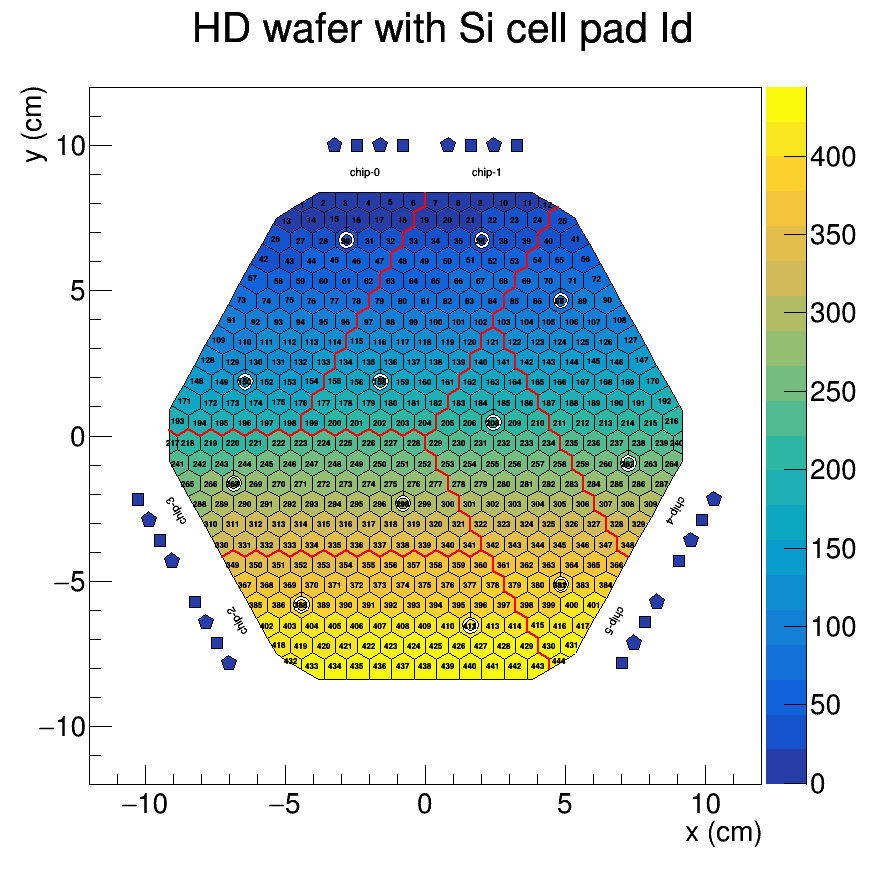
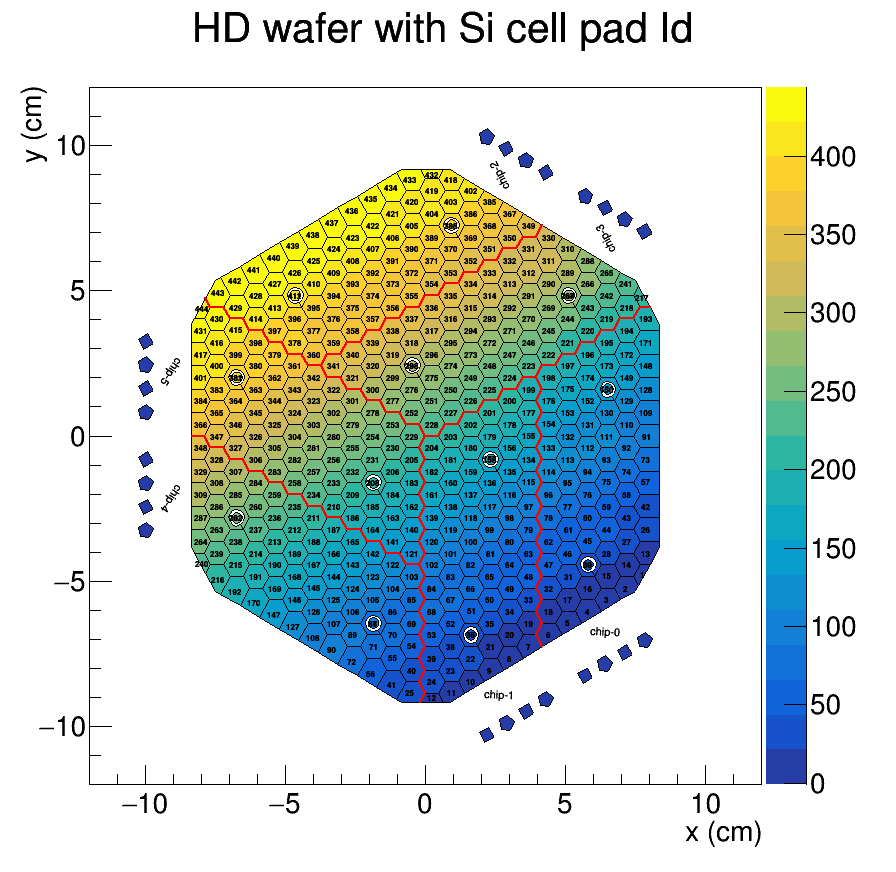
update for extra rotation

Changed region(s): [[0.125, 0.1548, 0.8125, 0.836], [0.5312, 0.836, 0.5625, 0.867], [0.25, 0.7431, 0.2812, 0.7741]]

diff --git a/include/auxiliary_boundary_lines_HD_full_wafer.h b/include/auxiliary_boundary_lines_HD_full_wafer.h
@@ -4,18 +4,18 @@
 namespace aux {
 const int N_HD_boundary_points = 24;
 
-double x1_HD_full_wafer[N_HD_boundary_points] = {-9.161466, -8.859440, -8.456738, -8.054036, -7.651334, -7.248633, -6.845931, -6.443229, -6.040527, -5.637825, -5.235124, -4.832422, -4.429720, -4.027018, -3.624316, -3.221615, -2.818913, -2.416211, -2.013509, -1.610807, -1.208105, -0.805404, -0.402702, -0.000000};
-double y1_HD_full_wafer[N_HD_boundary_points] = {0.174375, 0.000000, 0.232500, 0.000000, 0.232500, 0.000000, 0.232500, -0.000000, 0.232500, 0.000000, 0.232500, 0.000000, 0.232500, -0.000000, 0.232500, -0.000000, 0.232500, -0.000000, 0.232500, -0.000000, 0.232500, -0.000000, 0.232500, -0.000000};
-double x2_HD_full_wafer[N_HD_boundary_points] = {4.731746, 4.429720, 4.429720, 4.027018, 4.027018, 3.624316, 3.624316, 3.221615, 3.221615, 2.818913, 2.818913, 2.416211, 2.416211, 2.013509, 2.013509, 1.610807, 1.610807, 1.208105, 1.208105, 0.805404, 0.805404, 0.402702, 0.402702, -0.000000};
-double y2_HD_full_wafer[N_HD_boundary_points] = {7.846875, 7.672500, 7.207500, 6.975000, 6.510000, 6.277500, 5.812500, 5.580000, 5.115000, 4.882500, 4.417500, 4.185000, 3.720000, 3.487500, 3.022500, 2.790000, 2.325000, 2.092500, 1.627500, 1.395000, 0.930000, 0.697500, 0.232500, -0.000000};
-double x3_HD_full_wafer[N_HD_boundary_points] = {4.429720, 4.429720, 4.027018, 4.027018, 3.624316, 3.624316, 3.221615, 3.221615, 2.818913, 2.818913, 2.416211, 2.416211, 2.013509, 2.013509, 1.610807, 1.610807, 1.208105, 1.208105, 0.805404, 0.805404, 0.402702, 0.402702, -0.000000, -0.000000};
-double y3_HD_full_wafer[N_HD_boundary_points] = {-8.021250, -7.672500, -7.440000, -6.975000, -6.742500, -6.277500, -6.045000, -5.580000, -5.347500, -4.882500, -4.650000, -4.185000, -3.952500, -3.487500, -3.255000, -2.790000, -2.557500, -2.092500, -1.860000, -1.395000, -1.162500, -0.697500, -0.465000, -0.000000};
-double x4_HD_full_wafer[N_HD_boundary_points] = {0.000000, 0.000000, -0.402702, -0.402702, -0.805404, -0.805404, -1.208105, -1.208105, -1.610807, -1.610807, -2.013509, -2.013509, -2.416211, -2.416211, -2.818913, -2.818913, -3.221615, -3.221615, -3.624316, -3.624316, -4.027018, -4.027018, -4.429720, -4.429720};
-double y4_HD_full_wafer[N_HD_boundary_points] = {8.370000, 7.905000, 7.672500, 7.207500, 6.975000, 6.510000, 6.277500, 5.812500, 5.580000, 5.115000, 4.882500, 4.417500, 4.185000, 3.720000, 3.487500, 3.022500, 2.790000, 2.325000, 2.092500, 1.627500, 1.395000, 0.930000, 0.697500, 0.232500};
-double x5_HD_full_wafer[N_HD_boundary_points] = {7.248633, 6.845931, 6.845931, 6.443229, 6.443229, 6.040527, 6.040527, 5.637825, 5.637825, 5.235124, 5.235124, 4.832422, 4.832422, 4.429720, 4.429720, 4.027018, 4.027018, 3.624316, 3.624316, 3.221615, 3.221615, 2.818913, 2.818913, 2.416211};
-double y5_HD_full_wafer[N_HD_boundary_points] = {-4.185000, -3.952500, -3.487500, -3.255000, -2.790000, -2.557500, -2.092500, -1.860000, -1.395000, -1.162500, -0.697500, -0.465000, -0.000000, 0.232500, 0.697500, 0.930000, 1.395000, 1.627500, 2.092500, 2.325000, 2.790000, 3.022500, 3.487500, 3.720000};
-double x6_HD_full_wafer[N_HD_boundary_points] = {-7.248633, -6.845931, -6.443229, -6.040527, -5.637825, -5.235124, -4.832422, -4.429720, -4.027018, -3.624316, -3.221615, -2.818913, -2.416211, -2.013509, -1.610807, -1.208105, -0.805404, -0.402702, -0.000000, 0.402702, 0.805404, 1.208105, 1.610807, 2.013509};
-double y6_HD_full_wafer[N_HD_boundary_points] = {-4.185000, -3.952500, -4.185000, -3.952500, -4.185000, -3.952500, -4.185000, -3.952500, -4.185000, -3.952500, -4.185000, -3.952500, -4.185000, -3.952500, -4.185000, -3.952500, -4.185000, -3.952500, -4.185000, -3.952500, -4.185000, -3.952500, -4.185000, -3.952500};
+double x1_HD_full_wafer[N_HD_boundary_points] = {-7.846875, -7.672500, -7.207500, -6.975000, -6.510000, -6.277500, -5.812500, -5.580000, -5.115000, -4.882500, -4.417500, -4.185000, -3.720000, -3.487500, -3.022500, -2.790000, -2.325000, -2.092500, -1.627500, -1.395000, -0.930000, -0.697500, -0.232500, -0.000000};
+double y1_HD_full_wafer[N_HD_boundary_points] = {4.731746, 4.429720, 4.429720, 4.027018, 4.027018, 3.624316, 3.624316, 3.221615, 3.221615, 2.818913, 2.818913, 2.416211, 2.416211, 2.013509, 2.013509, 1.610807, 1.610807, 1.208105, 1.208105, 0.805404, 0.805404, 0.402702, 0.402702, -0.000000};
+double x2_HD_full_wafer[N_HD_boundary_points] = {8.021250, 7.672500, 7.440000, 6.975000, 6.742500, 6.277500, 6.045000, 5.580000, 5.347500, 4.882500, 4.650000, 4.185000, 3.952500, 3.487500, 3.255000, 2.790000, 2.557500, 2.092500, 1.860000, 1.395000, 1.162500, 0.697500, 0.465000, -0.000000};
+double y2_HD_full_wafer[N_HD_boundary_points] = {4.429720, 4.429720, 4.027018, 4.027018, 3.624316, 3.624316, 3.221615, 3.221615, 2.818913, 2.818913, 2.416211, 2.416211, 2.013509, 2.013509, 1.610807, 1.610807, 1.208105, 1.208105, 0.805404, 0.805404, 0.402702, 0.402702, -0.000000, -0.000000};
+double x3_HD_full_wafer[N_HD_boundary_points] = {-0.174375, 0.000000, -0.232500, 0.000000, -0.232500, 0.000000, -0.232500, 0.000000, -0.232500, -0.000000, -0.232500, -0.000000, -0.232500, 0.000000, -0.232500, -0.000000, -0.232500, -0.000000, -0.232500, -0.000000, -0.232500, -0.000000, -0.232500, -0.000000};
+double y3_HD_full_wafer[N_HD_boundary_points] = {-9.161466, -8.859440, -8.456738, -8.054036, -7.651334, -7.248633, -6.845931, -6.443229, -6.040527, -5.637825, -5.235124, -4.832422, -4.429720, -4.027018, -3.624316, -3.221615, -2.818913, -2.416211, -2.013509, -1.610807, -1.208105, -0.805404, -0.402702, -0.000000};
+double x4_HD_full_wafer[N_HD_boundary_points] = {4.185000, 3.952500, 3.487500, 3.255000, 2.790000, 2.557500, 2.092500, 1.860000, 1.395000, 1.162500, 0.697500, 0.465000, -0.000000, -0.232500, -0.697500, -0.930000, -1.395000, -1.627500, -2.092500, -2.325000, -2.790000, -3.022500, -3.487500, -3.720000};
+double y4_HD_full_wafer[N_HD_boundary_points] = {7.248633, 6.845931, 6.845931, 6.443229, 6.443229, 6.040527, 6.040527, 5.637825, 5.637825, 5.235124, 5.235124, 4.832422, 4.832422, 4.429720, 4.429720, 4.027018, 4.027018, 3.624316, 3.624316, 3.221615, 3.221615, 2.818913, 2.818913, 2.416211};
+double x5_HD_full_wafer[N_HD_boundary_points] = {4.185000, 3.952500, 4.185000, 3.952500, 4.185000, 3.952500, 4.185000, 3.952500, 4.185000, 3.952500, 4.185000, 3.952500, 4.185000, 3.952500, 4.185000, 3.952500, 4.185000, 3.952500, 4.185000, 3.952500, 4.185000, 3.952500, 4.185000, 3.952500};
+double y5_HD_full_wafer[N_HD_boundary_points] = {-7.248633, -6.845931, -6.443229, -6.040527, -5.637825, -5.235124, -4.832422, -4.429720, -4.027018, -3.624316, -3.221615, -2.818913, -2.416211, -2.013509, -1.610807, -1.208105, -0.805404, -0.402702, 0.000000, 0.402702, 0.805404, 1.208105, 1.610807, 2.013509};
+double x6_HD_full_wafer[N_HD_boundary_points] = {-8.370000, -7.905000, -7.672500, -7.207500, -6.975000, -6.510000, -6.277500, -5.812500, -5.580000, -5.115000, -4.882500, -4.417500, -4.185000, -3.720000, -3.487500, -3.022500, -2.790000, -2.325000, -2.092500, -1.627500, -1.395000, -0.930000, -0.697500, -0.232500};
+double y6_HD_full_wafer[N_HD_boundary_points] = {0.000000, -0.000000, -0.402702, -0.402702, -0.805404, -0.805404, -1.208105, -1.208105, -1.610807, -1.610807, -2.013509, -2.013509, -2.416211, -2.416211, -2.818913, -2.818913, -3.221615, -3.221615, -3.624316, -3.624316, -4.027018, -4.027018, -4.429720, -4.429720};
 }; // end of aux
 
 #endif // __auxiliary_boundary_lines_HD_full_wafer__

diff --git a/include/auxiliary_boundary_lines.h b/include/auxiliary_boundary_lines.h
@@ -4,18 +4,18 @@
 namespace aux {
 const int N_boundary_points = 16;
 
-double x1[N_boundary_points] = {4.948189, 4.229400, 4.229400, 3.625200, 3.625200, 3.021000, 3.021000, 2.416800, 2.416800, 1.812600, 1.812600, 1.208400, 1.208400, 0.604200, 0.604200, 0.000000};
-double y1[N_boundary_points] = {7.740528, 7.325535, 6.627865, 6.279030, 5.581360, 5.232525, 4.534855, 4.186020, 3.488350, 3.139515, 2.441845, 2.093010, 1.395340, 1.046505, 0.348835, 0.000000};
-double x2[N_boundary_points] = {-9.177589, -8.458799, -7.854599, -7.250399, -6.646199, -6.041999, -5.437799, -4.833599, -4.229399, -3.625200, -3.021000, -2.416800, -1.812600, -1.208400, -0.604200, 0.000000};
-double y2[N_boundary_points] = {0.414993, 0.000000, 0.348835, 0.000000, 0.348835, 0.000000, 0.348835, 0.000000, 0.348835, 0.000000, 0.348835, 0.000000, 0.348835, 0.000000, 0.348835, 0.000000};
-double x3[N_boundary_points] = {0.000000, 0.000000, 0.604200, 0.604200, 1.208400, 1.208400, 1.812600, 1.812600, 2.416800, 2.416800, 3.021000, 3.021000, 3.625200, 3.625200, 4.229400, 4.229400};
-double y3[N_boundary_points] = {0.000000, -0.697670, -1.046505, -1.744175, -2.093010, -2.790680, -3.139515, -3.837185, -4.186020, -4.883690, -5.232525, -5.930195, -6.279030, -6.976700, -7.325535, -8.155522};
-double x4[N_boundary_points] = {-6.948299, -6.041999, -5.437799, -4.833599, -4.229399, -3.625200, -3.021000, -2.416800, -1.812600, -1.208400, -0.604200, 0.000000, 0.604200, 1.208400, 1.812600, 2.416800};
-double y4[N_boundary_points] = {4.709273, 4.186020, 4.534855, 4.186020, 4.534855, 4.186020, 4.534855, 4.186020, 4.534855, 4.186020, 4.534855, 4.186020, 4.534855, 4.186020, 4.534855, 4.186020};
-double x5[N_boundary_points] = {7.552499, 6.646199, 6.646199, 6.042000, 6.042000, 5.437800, 5.437800, 4.833600, 4.833600, 4.229400, 4.229400, 3.625200, 3.625200, 3.021000, 3.021000, 2.416800};
-double y5[N_boundary_points] = {3.662767, 3.139515, 2.441845, 2.093010, 1.395340, 1.046505, 0.348835, -0.000000, -0.697670, -1.046505, -1.744175, -2.093010, -2.790680, -3.139515, -3.837185, -4.186020};
-double x6[N_boundary_points] = {-4.833599, -4.833599, -4.229399, -4.229399, -3.625200, -3.625200, -3.021000, -3.021000, -2.416800, -2.416800, -1.812600, -1.812600, -1.208400, -1.208400, -0.604200, -0.604200};
-double y6[N_boundary_points] = {0.000000, -0.697670, -1.046505, -1.744175, -2.093010, -2.790680, -3.139515, -3.837185, -4.186020, -4.883690, -5.232525, -5.930195, -6.279030, -6.976700, -7.325535, -8.372040};
+double x1[N_boundary_points] = {6.947122, 6.117135, 5.768300, 5.070630, 4.721795, 4.024125, 3.675290, 2.977620, 2.628785, 1.931115, 1.582280, 0.884610, 0.535775, -0.161895, -0.510730, -1.208400};
+double y1[N_boundary_points] = {4.553189, 4.553189, 3.948989, 3.948989, 3.344789, 3.344789, 2.740589, 2.740589, 2.136389, 2.136389, 1.532189, 1.532189, 0.927990, 0.927990, 0.323790, 0.323790};
+double x2[N_boundary_points] = {-8.948928, -8.533935, -7.836265, -7.487430, -6.789760, -6.440925, -5.743255, -5.394420, -4.696750, -4.347915, -3.650245, -3.301410, -2.603740, -2.254905, -1.557235, -1.208400};
+double y2[N_boundary_points] = {5.271979, 4.553189, 4.553189, 3.948989, 3.948989, 3.344789, 3.344789, 2.740589, 2.740589, 2.136389, 2.136389, 1.532189, 1.532189, 0.927990, 0.927990, 0.323790};
+double x3[N_boundary_points] = {-1.208400, -1.557235, -1.208400, -1.557235, -1.208400, -1.557235, -1.208400, -1.557235, -1.208400, -1.557235, -1.208400, -1.557235, -1.208400, -1.557235, -1.208400, -1.623393};
+double y3[N_boundary_points] = {0.323790, -0.280410, -0.884610, -1.488810, -2.093010, -2.697210, -3.301410, -3.905610, -4.509810, -5.114010, -5.718210, -6.322410, -6.926610, -7.530810, -8.135010, -8.853799};
+double x4[N_boundary_points] = {-4.871167, -4.347915, -3.650245, -3.301410, -2.603740, -2.254905, -1.557235, -1.208400, -0.510730, -0.161895, 0.535775, 0.884610, 1.582280, 1.931115, 2.628785, 2.977620};
+double y4[N_boundary_points] = {7.876289, 6.969989, 6.969989, 6.365789, 6.365789, 5.761589, 5.761589, 5.157389, 5.157389, 4.553189, 4.553189, 3.948989, 3.948989, 3.344789, 3.344789, 2.740589};
+double x5[N_boundary_points] = {7.163640, 6.117135, 5.768300, 5.070630, 4.721795, 4.024125, 3.675290, 2.977620, 2.628785, 1.931115, 1.582280, 0.884610, 0.535775, -0.161895, -0.510730, -1.208400};
+double y5[N_boundary_points] = {-0.280410, -0.280410, -0.884610, -0.884610, -1.488810, -1.488810, -2.093010, -2.093010, -2.697210, -2.697210, -3.301410, -3.301410, -3.905610, -3.905610, -4.509810, -4.509810};
+double x6[N_boundary_points] = {-5.394420, -5.743255, -5.394420, -5.743255, -5.394420, -5.743255, -5.394420, -5.743255, -5.394420, -5.743255, -5.394420, -5.743255, -5.394420, -5.743255, -5.394420, -5.917673};
+double y6[N_boundary_points] = {2.740589, 2.136389, 1.532189, 0.927990, 0.323790, -0.280410, -0.884610, -1.488810, -2.093010, -2.697210, -3.301410, -3.905610, -4.509810, -5.114010, -5.718210, -6.624510};
 }; // end of aux
 
 #endif // __auxiliary_boundary_lines__

diff --git a/th2poly.C b/th2poly.C
@@ -5,9 +5,19 @@
 #include "include/map_channel_numbers.h"
 #include <map>
 
-void beautify_plot(bool drawLine = true, bool drawText = true, TString NameTag = "LD_wafer", double extra_angle = 0.0);
+#include "TMath.h"
 
-void th2poly(TString inputfile, TString outputfile, double range, bool drawLine=false, TString NameTag="LD_wafer", double MarkerSize = 0.7, double extra_angle = 0.0){
+void beautify_plot(bool drawLine = true, bool drawText = true, TString NameTag = "LD_wafer", double extra_angle = 0.0, TString rotationTag = "");
+
+void th2poly(TString inputfile, TString outputfile, double range, bool drawLine=false, TString NameTag="LD_wafer", double MarkerSize = 0.7, TString rotationTag = ""){
+
+    double extra_angle = 0.0;
+
+    if(rotationTag=="_rotation150")
+        extra_angle = 5. * TMath::Pi() / 6.;
+    if(rotationTag=="_rotation30")
+        extra_angle = TMath::Pi() / 6.;
+
     TCanvas *c1 = new TCanvas("c1", "", 900, 900);
     c1->SetRightMargin(0.15);
     gStyle->SetPaintTextFormat(".0f");
@@ -162,25 +172,25 @@ void th2poly(TString inputfile, TString outputfile, double range, bool drawLine=
     if(scheme==0) {
         p->SetMarkerSize(MarkerSize);
         p->Draw("colz;text");
-        beautify_plot(drawLine, true, NameTag, extra_angle);
-        c1->SaveAs("waferMaps/info_"+NameTag+"_globalChannelId_readoutSequence.png");
-        c1->SaveAs("waferMaps/info_"+NameTag+"_globalChannelId_readoutSequence.pdf");
+        beautify_plot(drawLine, true, NameTag, extra_angle, rotationTag);
+        c1->SaveAs("waferMaps/info_"+NameTag+"_globalChannelId_readoutSequence"+rotationTag+".png");
+        c1->SaveAs("waferMaps/info_"+NameTag+"_globalChannelId_readoutSequence"+rotationTag+".pdf");
 
         p_pin->SetMarkerSize(MarkerSize);
         p_pin->Draw("colz;text");
-        beautify_plot(drawLine, true, NameTag, extra_angle);
-        c1->SaveAs("waferMaps/info_"+NameTag+"_HGCROC_pin_chan.png");
-        c1->SaveAs("waferMaps/info_"+NameTag+"_HGCROC_pin_chan.pdf");
+        beautify_plot(drawLine, true, NameTag, extra_angle, rotationTag);
+        c1->SaveAs("waferMaps/info_"+NameTag+"_HGCROC_pin_chan"+rotationTag+".png");
+        c1->SaveAs("waferMaps/info_"+NameTag+"_HGCROC_pin_chan"+rotationTag+".pdf");
 
         p_sicell->SetMarkerSize(MarkerSize);
         p_sicell->Draw("colz;text");
-        beautify_plot(drawLine, true, NameTag, extra_angle);
-        c1->SaveAs("waferMaps/info_"+NameTag+"_SiCell_padId.png");
-        c1->SaveAs("waferMaps/info_"+NameTag+"_SiCell_padId.pdf");
+        beautify_plot(drawLine, true, NameTag, extra_angle, rotationTag);
+        c1->SaveAs("waferMaps/info_"+NameTag+"_SiCell_padId"+rotationTag+".png");
+        c1->SaveAs("waferMaps/info_"+NameTag+"_SiCell_padId"+rotationTag+".pdf");
     } else {
         p->SetMarkerSize(MarkerSize);
         p->Draw("colz;text");
-        beautify_plot(drawLine, true, NameTag, extra_angle);
+        beautify_plot(drawLine, true, NameTag, extra_angle, rotationTag);
         c1->SaveAs("test_injection_"+NameTag+".png");
     }
 
@@ -192,7 +202,7 @@ void th2poly(TString inputfile, TString outputfile, double range, bool drawLine=
 
 }
 
-void beautify_plot(bool drawLine = true, bool drawText = true, TString NameTag = "LD_wafer", double extra_angle = 0.0) {
+void beautify_plot(bool drawLine = true, bool drawText = true, TString NameTag = "LD_wafer", double extra_angle = 0.0, TString rotationTag = "") {
     //-----------------------------------------------------------------
     // cosmetics
     //-----------------------------------------------------------------
@@ -240,11 +250,18 @@ void beautify_plot(bool drawLine = true, bool drawText = true, TString NameTag =
         text.SetTextSize(12);
 
         if(NameTag.Contains("HD")) {
-            double theta1 = 0.;
-            double theta2 = 4*TMath::Pi()/3.;
-            double theta3 = 2*TMath::Pi()/3.;
+            double theta1 = 0. + extra_angle;
+            double theta2 = 4*TMath::Pi()/3. + extra_angle;
+            double theta3 = 2*TMath::Pi()/3. + extra_angle;
 
             std::vector<double> theta_angle_text = {0, 0, 120, 120, -120, -120};
+            if(rotationTag.Contains("150"))
+                theta_angle_text = {-150, -150, -30, -30, 90, 90};
+            else if(rotationTag.Contains("30"))
+                theta_angle_text = {-30, -30, 90, 90, -150, -150};
+
+            // std::vector<double> theta_angle_text = {0, 0, 120, 120, -120, -120};
+            // std::vector<double> theta_angle_text = {-extra_angle, -extra_angle, -extra_angle+120, -extra_angle+120, -extra_angle-120, -extra_angle-120};
             std::vector<double> theta_coordinate_text = {theta1, theta1, theta2, theta2, theta3, theta3};
             std::vector<double> x_coordinate_text = {-6.25, 6.25, -6.25, 6.25, -6.25, 6.25};
             std::vector<double> y_coordinate_text = {26, 26, 26, 26, 26, 26};

diff --git a/toolbox/polygon_manager.py b/toolbox/polygon_manager.py
@@ -39,7 +39,7 @@ class PolygonManager:
             self.output_geometry_root_file = "./data/hexagons.root"
 
         self.extra_rotation_tb2024 = extra_angle
-        self.global_theta = 5.*math.pi/6. + self.extra_rotation_tb2024 # 150 + extra degree
+        self.global_theta = 5.*math.pi/6. # + self.extra_rotation_tb2024 # 150 + extra degree
         self.cos_global_theta = math.cos(self.global_theta)
         self.sin_global_theta = math.sin(self.global_theta)
 
@@ -163,6 +163,7 @@ class PolygonManager:
             coor = self.cell_helper.cellUV2XY1(int(self.iu), int(self.iv), 0, self.cell_fine_or_coarse)
             x, y = self.rotate_coordinate(coor[0], coor[1], self.global_theta)
             x, y = self.translate_coordinate(x, y, 1., (-1*self.global_correction_x, -1*self.global_correction_y))
+            x, y = self.rotate_coordinate(x, y, self.extra_rotation_tb2024)
             return x, y
 
     def get_polygon_information(self):
@@ -375,31 +376,31 @@ class PolygonManager:
         CAVEAT: mind the internal indices of corner polygons when querying auxiliary lines
         """
         if self.type_polygon==tg.type_HD_hexagon_side3_corner3:
-            return tg.base[tg.type_HD_hexagon_side1_corner1], 2*tg.p3
+            return tg.base[tg.type_HD_hexagon_side1_corner1], 2*tg.p3 + self.extra_rotation_tb2024
         elif self.type_polygon==tg.type_HD_hexagon_side3_corner4:
-            return tg.base[tg.type_HD_hexagon_side1_corner2], 2*tg.p3
+            return tg.base[tg.type_HD_hexagon_side1_corner2], 2*tg.p3 + self.extra_rotation_tb2024
         elif self.type_polygon==tg.type_HD_hexagon_side5_corner5:
-            return tg.base[tg.type_HD_hexagon_side1_corner1], 4*tg.p3
+            return tg.base[tg.type_HD_hexagon_side1_corner1], 4*tg.p3 + self.extra_rotation_tb2024
         elif self.type_polygon==tg.type_HD_hexagon_side5_corner6:
-            return tg.base[tg.type_HD_hexagon_side1_corner2], 4*tg.p3
+            return tg.base[tg.type_HD_hexagon_side1_corner2], 4*tg.p3 + self.extra_rotation_tb2024
 
         elif self.type_polygon==tg.type_HD_trpezoid_corner3:
-            return tg.base[tg.type_HD_trpezoid_corner1], 2*tg.p3
+            return tg.base[tg.type_HD_trpezoid_corner1], 2*tg.p3 + self.extra_rotation_tb2024
         elif self.type_polygon==tg.type_HD_trpezoid_corner4:
-            return tg.base[tg.type_HD_trpezoid_corner2], 2*tg.p3
+            return tg.base[tg.type_HD_trpezoid_corner2], 2*tg.p3 + self.extra_rotation_tb2024
         elif self.type_polygon==tg.type_HD_trpezoid_corner5:
-            return tg.base[tg.type_HD_trpezoid_corner1], 4*tg.p3
+            return tg.base[tg.type_HD_trpezoid_corner1], 4*tg.p3 + self.extra_rotation_tb2024
         elif self.type_polygon==tg.type_HD_trpezoid_corner6:
-            return tg.base[tg.type_HD_trpezoid_corner2], 4*tg.p3
+            return tg.base[tg.type_HD_trpezoid_corner2], 4*tg.p3 + self.extra_rotation_tb2024
 
         elif self.type_polygon==tg.type_HD_hexagon_side2_corner3:
-            return tg.base[tg.type_HD_hexagon_side6_corner1], 2*tg.p3
+            return tg.base[tg.type_HD_hexagon_side6_corner1], 2*tg.p3 + self.extra_rotation_tb2024
         elif self.type_polygon==tg.type_HD_hexagon_side4_corner4:
-            return tg.base[tg.type_HD_hexagon_side2_corner2], 2*tg.p3
+            return tg.base[tg.type_HD_hexagon_side2_corner2], 2*tg.p3 + self.extra_rotation_tb2024
         elif self.type_polygon==tg.type_HD_hexagon_side4_corner5:
-            return tg.base[tg.type_HD_hexagon_side6_corner1], 4*tg.p3
+            return tg.base[tg.type_HD_hexagon_side6_corner1], 4*tg.p3 + self.extra_rotation_tb2024
         elif self.type_polygon==tg.type_HD_hexagon_side6_corner6:
-            return tg.base[tg.type_HD_hexagon_side2_corner2], 4*tg.p3
+            return tg.base[tg.type_HD_hexagon_side2_corner2], 4*tg.p3 + self.extra_rotation_tb2024
 
         else:
             return tg.base[self.type_polygon], self.extra_rotation_tb2024 
@@ -464,4 +465,9 @@ class PolygonManager:
         self.type_polygon, self.nCorner = self.get_polygon_information()
         self.graph = self.get_polygon() # need polygon type, number of corners, coordinates of cell center
         self.collections[self.globalId] = self.graph
+
+        # if self.sicell==193:
+        #     print(f"[DEBUG] globalId = {self.globalId}, rocpin = {self.rocpin}, sicell = {self.sicell}")
+        #     print(f"[DEBUG] x, y = {self.center_x}, {self.center_y}")
+
 

diff --git a/exe.py b/exe.py
@@ -24,7 +24,7 @@ elif args.waferType == "LD4":
     waferType, beginIdx, endIdx = "LD4", 778, 889
 
 def exe(command):
-    print "\n>>> executing command, ", command
+    print("\n>>> executing command, ", command)
     subprocess.call(command, shell=True)
 
 def retrieve_info(line):
@@ -100,17 +100,23 @@ def get_registered_polygon_manager(extra_angle, offset_x, offset_y):
     return polygon_manager
 
 def main():
-    pm = get_registered_polygon_manager(0., -1.20840 , 2.09301) # default
+    # pm = get_registered_polygon_manager(0., -1.20840 , 2.09301) # default
     # pm = get_registered_polygon_manager(5*math.pi/6. ,  2.09301 , -1.20840) # 150 degree
-    # pm = get_registered_polygon_manager(math.pi/6.   ,  0.0     ,  2.41680) # 30 degree
+    pm = get_registered_polygon_manager(math.pi/6.   ,  0.0     ,  2.41680) # 30 degree
     return pm.output_geometry_root_file, pm.extra_rotation_tb2024
 
 if __name__ == "__main__":
     geometry_rootfile, extra_angle = main()
 
+    rotationTag = ""
+    if(extra_angle==5*math.pi/6.):
+        rotationTag = "_rotation150"
+    if(extra_angle==math.pi/6.):
+        rotationTag = "_rotation30"
+
     if args.drawLine:
         exe("./toolbox/coordinate_loader.py -w %s" % args.waferType)
 
     scope, tag, outputName, markerSize = get_macro_arguments()
-    exe("root -l -b -q th2poly.C'(\"%s\", \"%s\", %d, %d, \"%s\", %f, %f)'" % (geometry_rootfile, outputName, scope, args.drawLine, tag, markerSize, extra_angle)) # execute root macro for TH2Poly
+    exe("root -l -b -q th2poly.C'(\"%s\", \"%s\", %d, %d, \"%s\", %f, \"%s\")'" % (geometry_rootfile, outputName, scope, args.drawLine, tag, markerSize, rotationTag)) # execute root macro for TH2Poly
 
